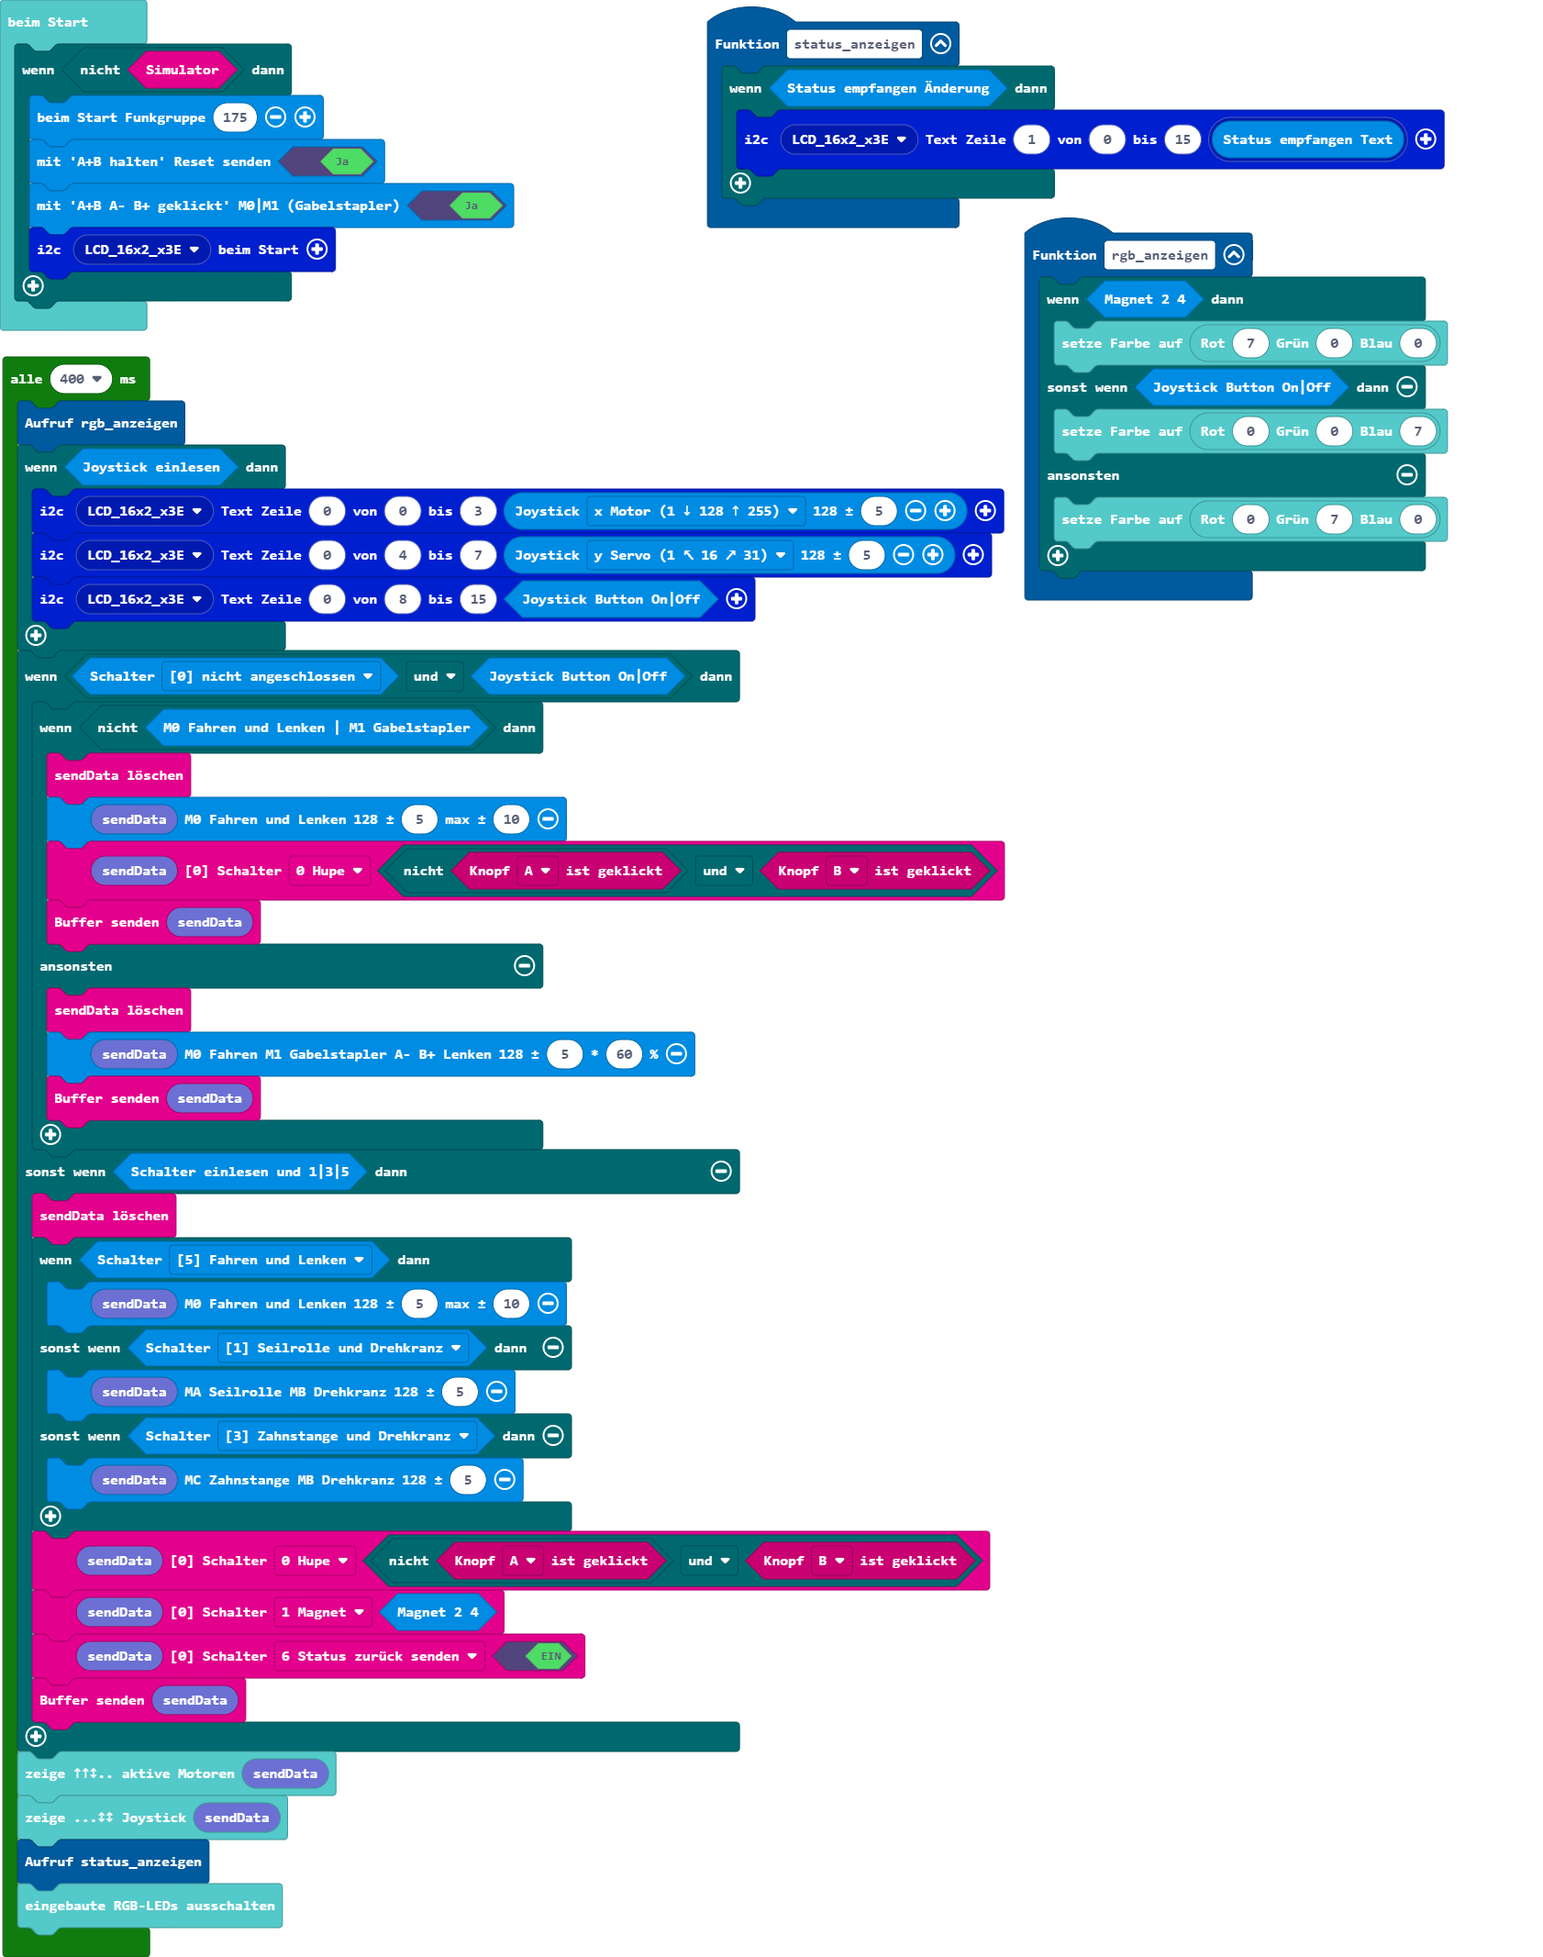
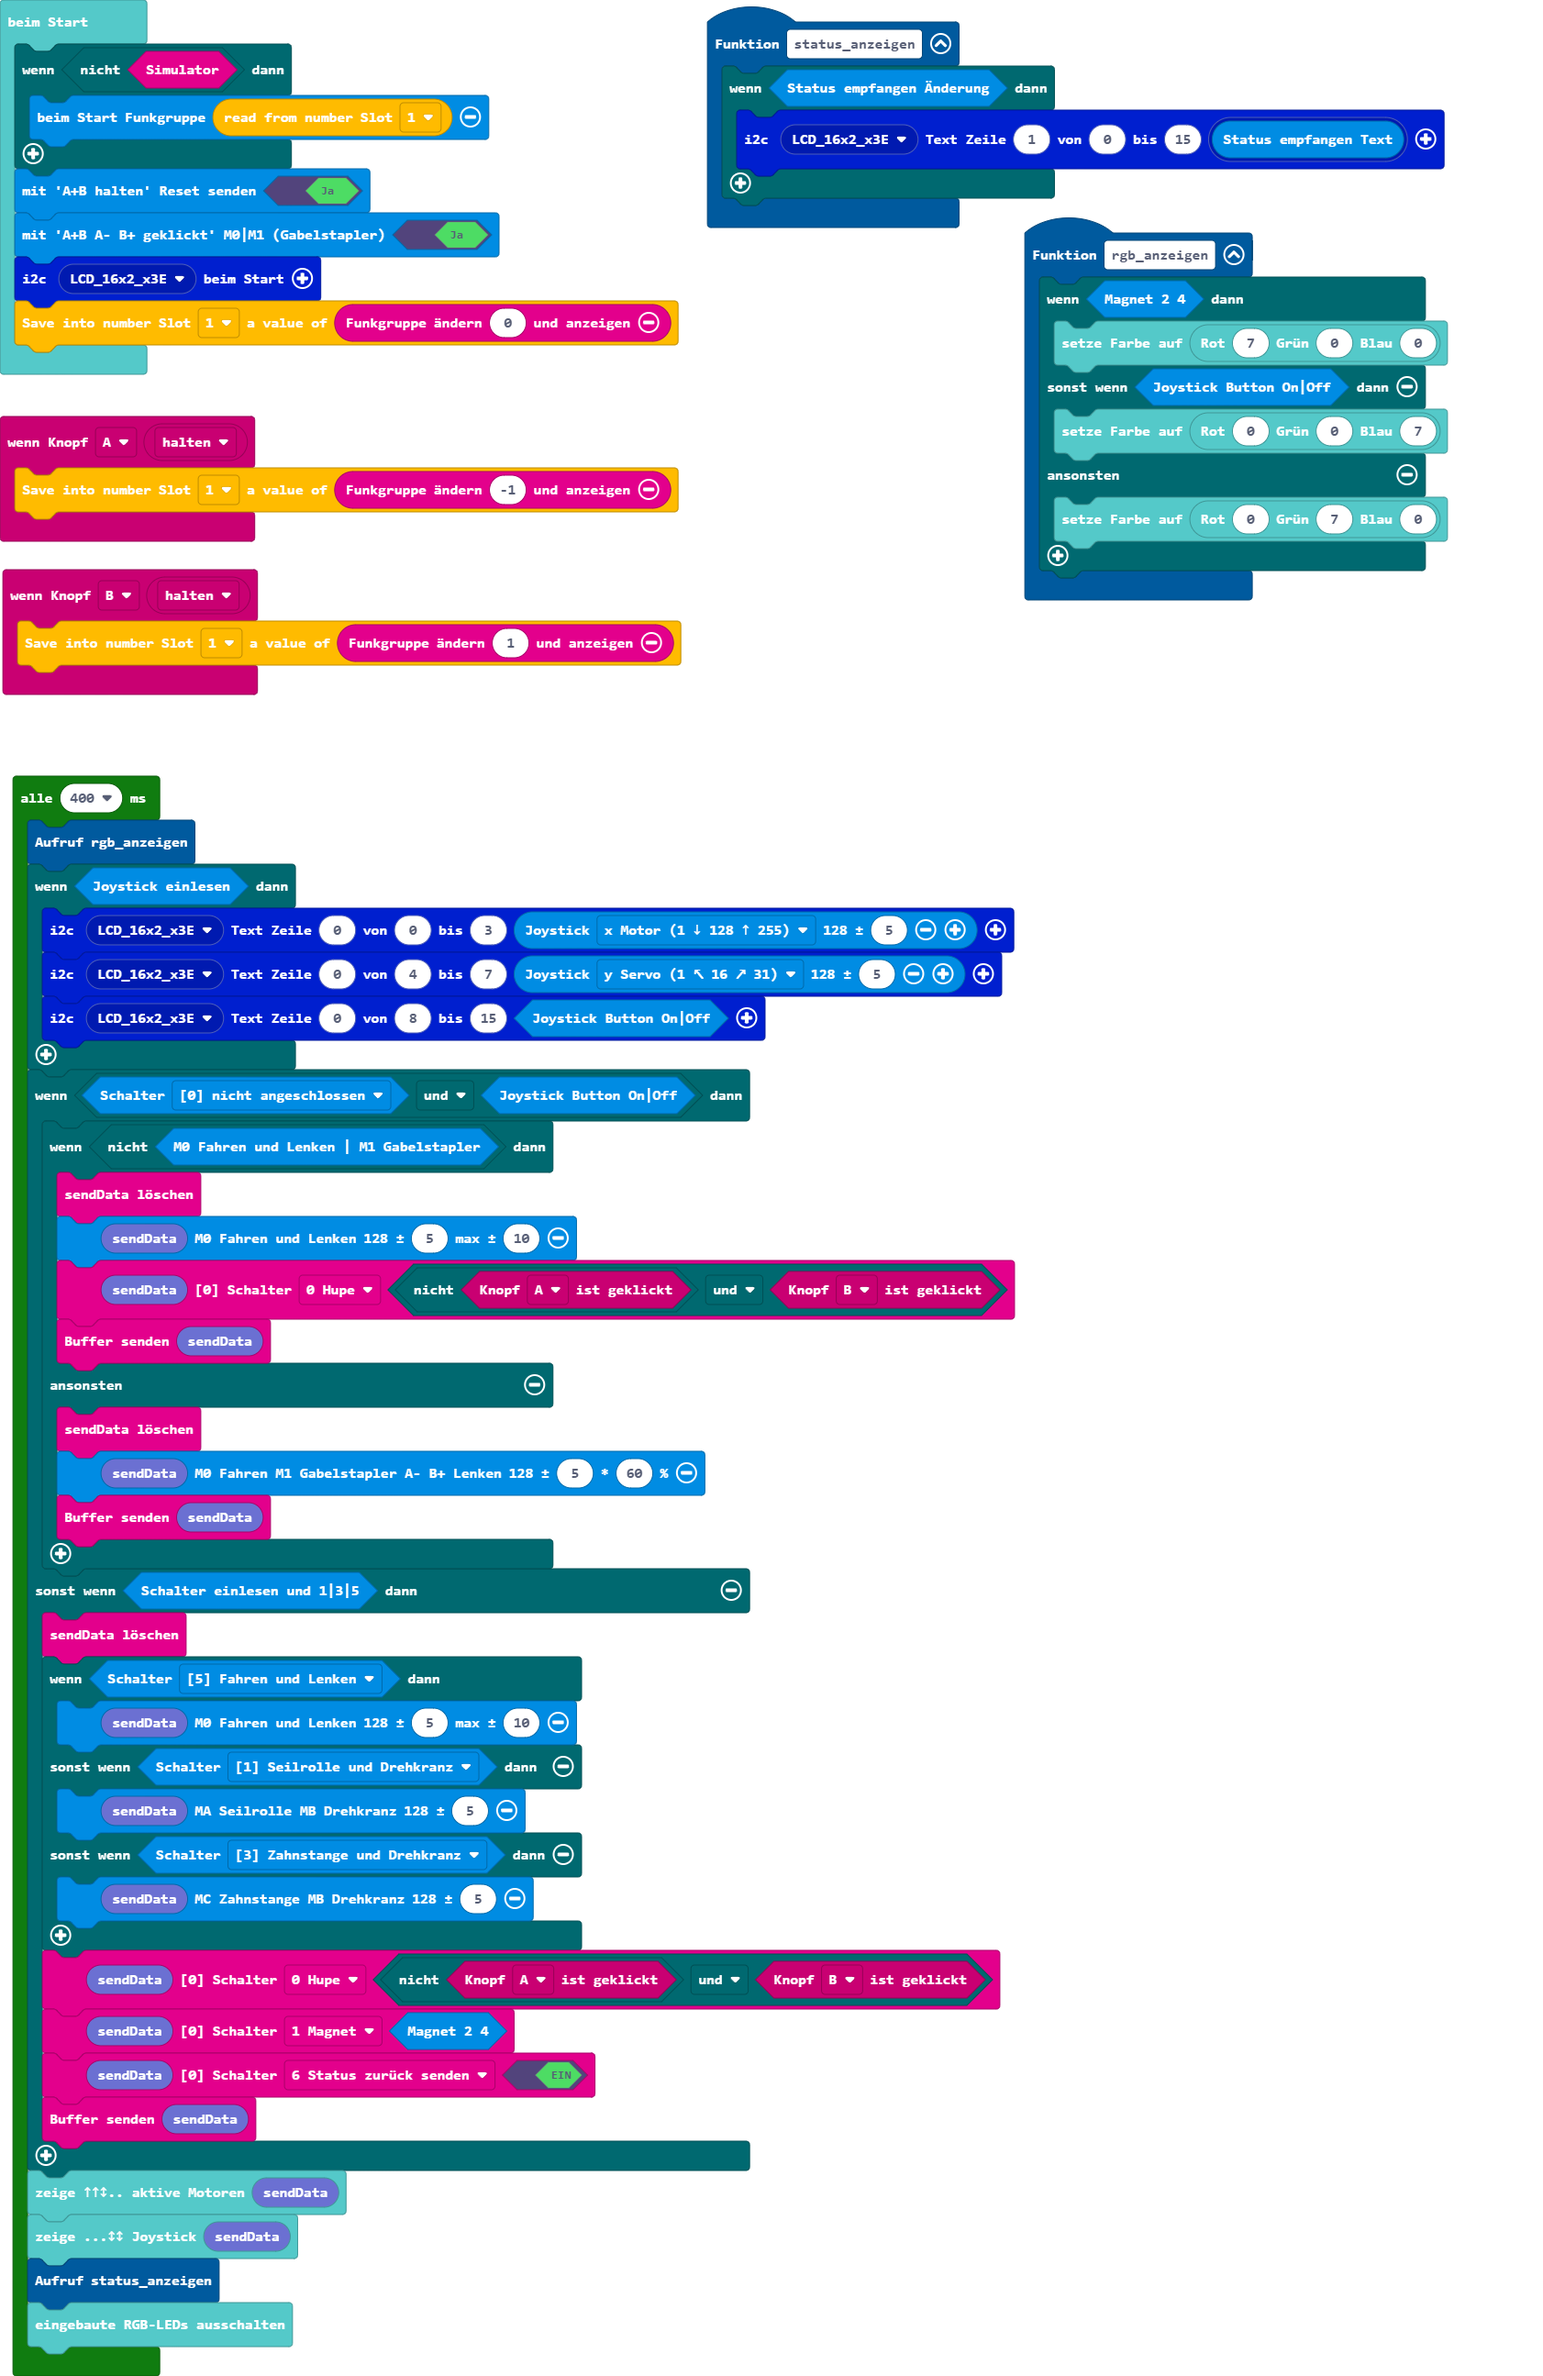
Aktualisiere pxt.json, main.blocks, main.ts

diff --git a/main.ts b/main.ts
@@ -3,6 +3,12 @@ function status_anzeigen () {
         lcd16x2rgb.writeText(lcd16x2rgb.lcd16x2_eADDR(lcd16x2rgb.eADDR_LCD.LCD_16x2_x3E), 1, 0, 15, lcd16x2rgb.lcd16x2_text(sender.receivedStringText()))
     }
 }
+input.onButtonEvent(Button.A, ButtonEvent.Hold, function () {
+    storage.putNumber(StorageSlots.s1, radio.getFunkgruppe(-1))
+})
+input.onButtonEvent(Button.B, ButtonEvent.Hold, function () {
+    storage.putNumber(StorageSlots.s1, radio.getFunkgruppe(1))
+})
 function rgb_anzeigen () {
     if (sender.getMagnet()) {
         basic.setLedColor(basic.rgb(7, 0, 0))
@@ -13,11 +19,12 @@ function rgb_anzeigen () {
     }
 }
 if (!(radio.simulator())) {
-    sender.beimStart(175)
-    sender.enableButtonSendReset(true)
-    sender.enableButtonMotor1(true)
-    lcd16x2rgb.initLCD(lcd16x2rgb.lcd16x2_eADDR(lcd16x2rgb.eADDR_LCD.LCD_16x2_x3E))
+    sender.beimStart(storage.getNumber(StorageSlots.s1))
 }
+sender.enableButtonSendReset(true)
+sender.enableButtonMotor1(true)
+lcd16x2rgb.initLCD(lcd16x2rgb.lcd16x2_eADDR(lcd16x2rgb.eADDR_LCD.LCD_16x2_x3E))
+storage.putNumber(StorageSlots.s1, radio.getFunkgruppe(0))
 loops.everyInterval(400, function () {
     rgb_anzeigen()
     if (sender.joystickQwiic()) {
